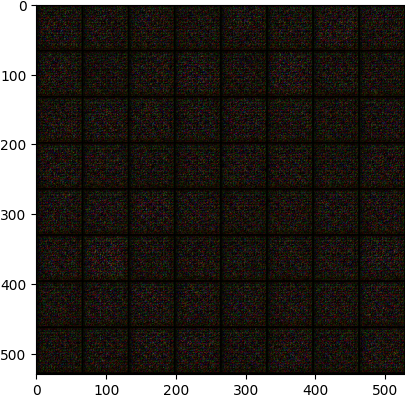
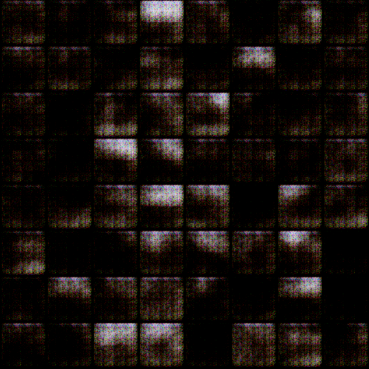
train on ec2 50 epochs

diff --git a/trainval.py b/trainval.py
@@ -3,21 +3,21 @@ from src import datasets, models
 import os
 
 def trainval():
-
     print("train")
-    num_epochs = 1
+    num_epochs = 50
     results = {}
-    train_dl = datasets.get_dataset(dataroot="test_ds", image_size=64, batch_size=128, num_workers=2)
-
+    train_dl = datasets.get_dataset(dataroot="data", image_size=64, batch_size=32, num_workers=2)
+    
     device = torch.device("cuda:0" if torch.cuda.is_available() else "cpu")
     model = models.Model(device)
     
     score_list = []
-    for i in range(0, num_epochs):
+    for epoch in range(0, num_epochs):
+        print(f'epoch {epoch} of {num_epochs}')
         lossD, lossG = model.train_on_dataset(train_dl)
         results["lossD"] = lossD
         results["lossG"] = lossG
-        model.vis_on_dataset(fname=os.path.join('training_image_results', 'results.png'))
+        model.vis_on_dataset(fname=os.path.join('training_image_results', f'epcoch{epoch}_results.png'))
 
 if __name__ == "__main__":
     trainval()

diff --git a/src/models.py b/src/models.py
@@ -29,7 +29,7 @@ lr = 0.0002
 beta1 = 0.5
 
 # Number of GPUs available. Use 0 for CPU mode.
-ngpu = 0
+ngpu = 1
 
 class Model(nn.Module):
     def __init__(self, device):
@@ -151,7 +151,7 @@ class Model(nn.Module):
         # grid = vutils.make_grid(fake, padding=2, normalize=True)
         new_img =  torchvision.utils.make_grid(fake).numpy().transpose(1,2,0)
         plt.axis('off')
-        plt.imshow(new_img)
+        plt.imshow((new_img * 255).astype(np.uint8))
         plt.savefig(fname, bbox_inches='tight', pad_inches=0)
         plt.close()
 
